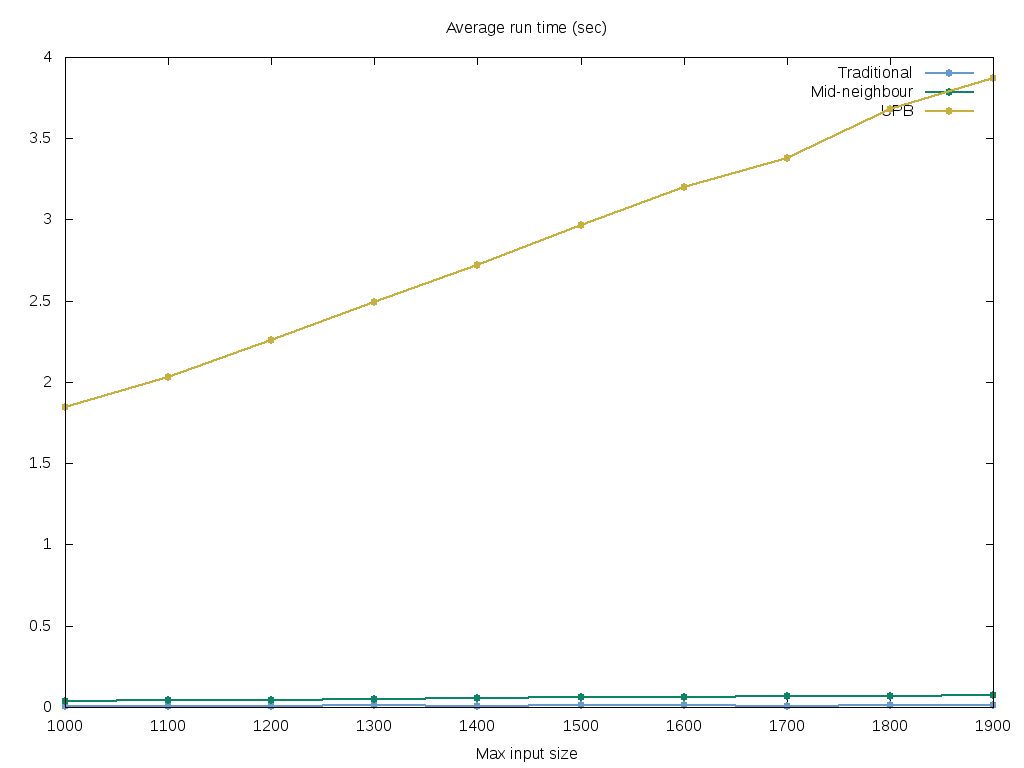
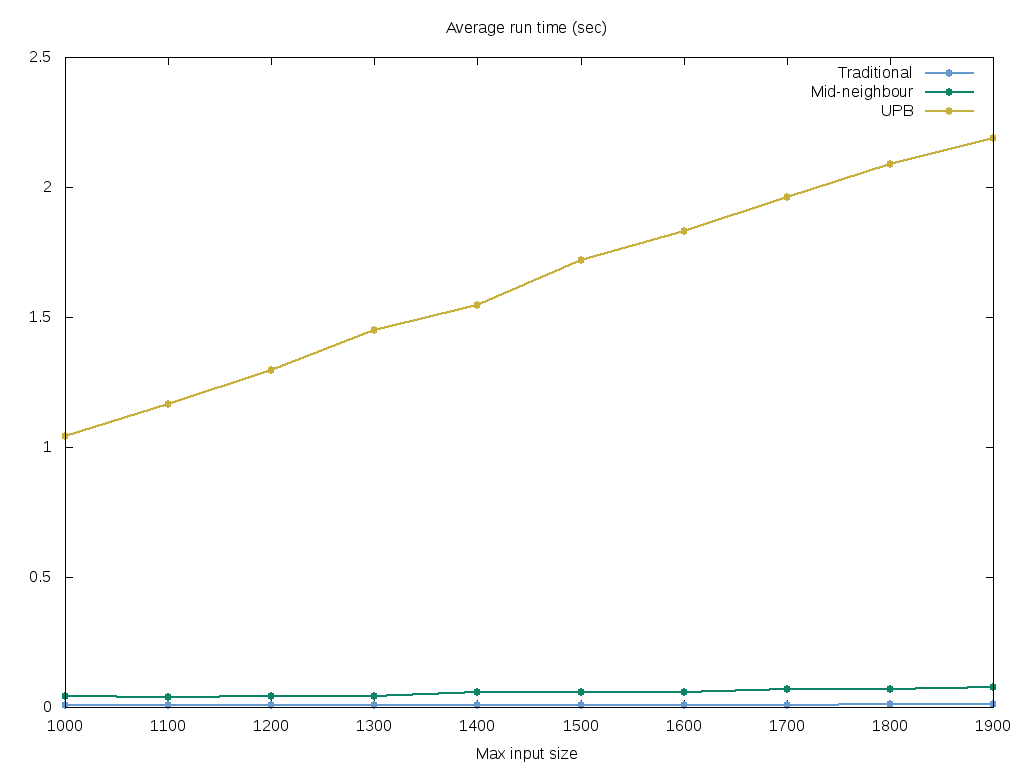
Almost done with the mupb

diff --git a/bisection/bisection.py b/bisection/bisection.py
@@ -269,7 +269,7 @@ def mupb (v, pc, pmf = []):
                 update_pmf (pmf, pc, first_qt, eights [2][1], 1)
                 update_pmf (pmf, pc, third_qt, eights [6][1], -1)
             else:
-                [result, child_eval] = split_upb (v, pc, pmf, median)
+                [result, child_eval] = split_mupb (v, pc, pmf, median)
                 return [result, evaluations + child_eval]
         else:
             if (d == 1.0):
@@ -314,6 +314,30 @@ def split_upb (v, pc, pmf, i):
         [sol2, eval2] = upb (v2, pc, pmf2)
     
     return [min (min_with_none (sol1, sol2), v[i]), eval1 + eval2]
+
+
+def split_mupb (v, pc, pmf, i):
+    """ Splits the orginal problem v with pmf in two parts, from 0 to i - 1 and from
+    i + 1 to len (v) """
+    v1 = v[0:i]
+    v2 = v[i + 1:len (v)]
+    
+    pmf1 = pmf[0:i]
+    pmf2 = pmf[i + 1:len (v)]
+    normalize_pmf (pmf1)
+    normalize_pmf (pmf2)
+    
+    sol1 = None
+    eval1 = 0
+    sol2 = None
+    eval2 = 0
+    if (len (v1) > 0):
+        [sol1, eval1] = mupb (v1, pc, pmf1)
+    if (len (v2) > 0):
+        [sol2, eval2] = mupb (v2, pc, pmf2)
+    
+    return [min (min_with_none (sol1, sol2), v[i]), eval1 + eval2]
+
 
 
 def min_with_none (a, b):

diff --git a/bisection/test_bisection.py b/bisection/test_bisection.py
@@ -13,7 +13,7 @@ test_size = 100.0
 
 time_file = open ('time_data.txt', 'w')
 evaluations_file = open ('evaluations_data.txt', 'w')
-for j in range (0):
+for j in range (10):
     d_evaluations = 0
     m_evaluations = 0
     s_evaluations = 0
@@ -61,11 +61,11 @@ evaluations_file.close ()
 time_file.close ()
 
 max_input_size = 100
-test_size = 100.0
+test_size = 1000.0
 correctness_file = open ('correctness_data.txt', 'w')
 # input noise parameter
 sigma = 0
-for j in range (5):
+for j in range (10):
     d_corrects = 0
     m_corrects = 0
     s_corrects = 0
